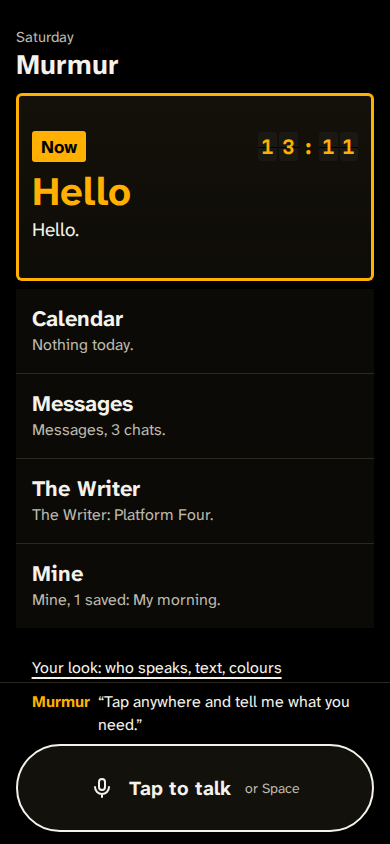
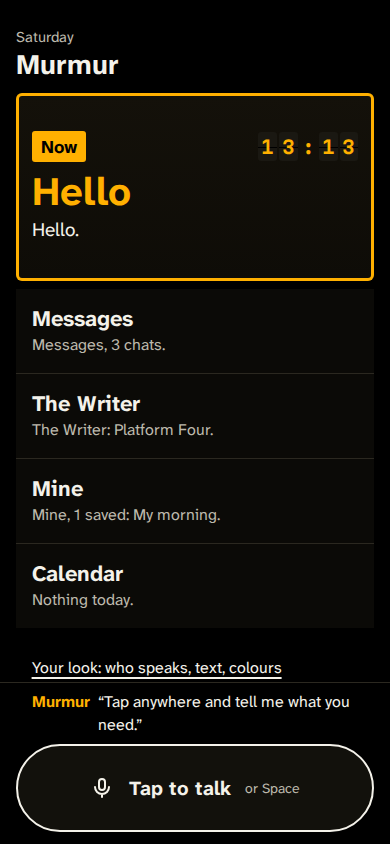
README images from main after the boot fix

diff --git a/README.md b/README.md
@@ -68,7 +68,7 @@ decide.
 | **Your look** | Text up to 400% that reflows instead of scrolling sideways; dark, light or yellow-on-black colours; large targets. |
 
 <p align="center">
-  <img src="docs/readme/home.png" alt="The board: Saturday, Murmur. A large Now tile on top, then Calendar, Messages, The Writer and Mine, with a Tap to talk bar at the bottom." width="240">
+  <img src="docs/readme/home.png" alt="The board: Saturday, Murmur. A large Now tile on top, then a tile for each app (Messages, The Writer, Mine, Calendar), with a Tap to talk bar at the bottom." width="240">
   &nbsp;
   <img src="docs/readme/ask-first.png" alt="The ask-first sheet: Send it? Send to Sam: I'm ten minutes late. A Send button and a No button." width="240">
   &nbsp;
